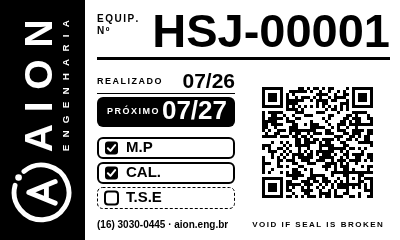
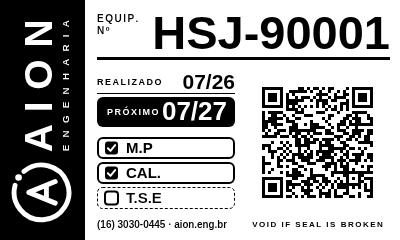
fix(dados): exemplos fictícios em api-campos (F1); setores genéricos no demo agora (F2); etiquetas PNG com HSJ-90001 (F3); fornecedor/fabricante genéricos nos testes (F4); teste 010 com centavos quebrados (F5)

diff --git a/lib/ec/snapshot-demo-agora.ts b/lib/ec/snapshot-demo-agora.ts
@@ -44,7 +44,7 @@ export function snapshotDemoAgora(): SalaSnapshot {
       os: "209909698",
       equipamento: "BISTURI ELETRÔNICO",
       tag: "HSJ-91079",
-      setor: "CENTRO CIRÚRGICO - 10A",
+      setor: "CENTRO CIRÚRGICO",
       situacao: "GRAVE",
       criticidade: "ALTA",
       idade: "5d 8h",
@@ -55,7 +55,7 @@ export function snapshotDemoAgora(): SalaSnapshot {
       os: "209909701",
       equipamento: "MONITOR MULTIPARAMÉTRICO",
       tag: "HSJ-90812",
-      setor: "UTI ADULTO - 3B",
+      setor: "UTI ADULTO",
       situacao: "GRAVE",
       criticidade: "ALTA",
       idade: "3d 2h",
@@ -88,7 +88,7 @@ export function snapshotDemoAgora(): SalaSnapshot {
       os: "209909720",
       equipamento: "BOMBA DE INFUSÃO",
       tag: "HSJ-91550",
-      setor: "CLÍNICA MÉDICA - 5A",
+      setor: "CLÍNICA MÉDICA",
       situacao: "VENCE LOGO",
       criticidade: "MÉDIA",
       idade: "9h",
@@ -99,7 +99,7 @@ export function snapshotDemoAgora(): SalaSnapshot {
       os: "209909722",
       equipamento: "CARDIOVERSOR",
       tag: "HSJ-90301",
-      setor: "CENTRO CIRÚRGICO - 10B",
+      setor: "CENTRO CIRÚRGICO",
       situacao: "NO PRAZO",
       criticidade: "BAIXA",
       idade: "3h",
@@ -137,8 +137,8 @@ export function snapshotDemoAgora(): SalaSnapshot {
       "agora.sem-primeiro": fila,
       "agora.parados": [
         { tag: "HSJ-91102", equipamento: "UMIDIFICADOR", setor: "CME", tempo: "166d", os: "209908100" },
-        { tag: "HSJ-91079", equipamento: "BISTURI ELETRÔNICO", setor: "CENTRO CIRÚRGICO - 10A", tempo: "5d", os: "209909698" },
-        { tag: "HSJ-90812", equipamento: "MONITOR MULTIPARAMÉTRICO", setor: "UTI ADULTO - 3B", tempo: "3d", os: "209909701" },
+        { tag: "HSJ-91079", equipamento: "BISTURI ELETRÔNICO", setor: "CENTRO CIRÚRGICO", tempo: "5d", os: "209909698" },
+        { tag: "HSJ-90812", equipamento: "MONITOR MULTIPARAMÉTRICO", setor: "UTI ADULTO", tempo: "3d", os: "209909701" },
         { tag: "HSJ-90221", equipamento: "DESFIBRILADOR", setor: "PRONTO SOCORRO", tempo: "1d", os: "209909710" },
       ],
     },
@@ -147,7 +147,7 @@ export function snapshotDemoAgora(): SalaSnapshot {
         os: "209909698",
         equipamento: "BISTURI ELETRÔNICO",
         tag: "HSJ-91079",
-        setor: "CENTRO CIRÚRGICO - 10A",
+        setor: "CENTRO CIRÚRGICO",
         solicitacao: "Não corta — pedalar sem efeito. Urgente para cirurgia.",
         ocorrencia: "Falha de potência",
         manutencaoExterna: true,
@@ -159,7 +159,7 @@ export function snapshotDemoAgora(): SalaSnapshot {
         os: "209909701",
         equipamento: "MONITOR MULTIPARAMÉTRICO",
         tag: "HSJ-90812",
-        setor: "UTI ADULTO - 3B",
+        setor: "UTI ADULTO",
         solicitacao: "Tela apagada; cabo SpO2 intermitente.",
         pendenciaCompra: true,
         pendencia: "Aguardando compra de cabo SpO2",
@@ -190,7 +190,7 @@ export function snapshotDemoAgora(): SalaSnapshot {
         os: "209909720",
         equipamento: "BOMBA DE INFUSÃO",
         tag: "HSJ-91550",
-        setor: "CLÍNICA MÉDICA - 5A",
+        setor: "CLÍNICA MÉDICA",
         solicitacao: "Oclusão falsa frequente.",
         criticidade: "MÉDIA",
         etapa: "Em atendimento",
@@ -200,7 +200,7 @@ export function snapshotDemoAgora(): SalaSnapshot {
         os: "209909722",
         equipamento: "CARDIOVERSOR",
         tag: "HSJ-90301",
-        setor: "CENTRO CIRÚRGICO - 10B",
+        setor: "CENTRO CIRÚRGICO",
         solicitacao: "Teste preventivo pós-uso.",
         criticidade: "BAIXA",
       }),

diff --git a/lib/db/migrations/010_contratos_inativado_em.test.ts b/lib/db/migrations/010_contratos_inativado_em.test.ts
@@ -81,3 +81,30 @@ test("C5 store: inativar grava inativado_em BRT; reinativar mantém; reativar li
     rmSync(dir, { recursive: true, force: true });
   }
 });
+
+test("C6b 010 com valores quebrados fictícios: centavos intactos e soma arredondada igual", () => {
+  const dir = mkdtempSync(path.join(os.tmpdir(), "m010c-"));
+  try {
+    const db = new Database(path.join(dir, "t.sqlite"));
+    db.exec(SCHEMA_SQL);
+    aplicarMigration009ContratosProprios(db);
+    const ins = db.prepare(
+      "INSERT INTO contratos (id, nome, fornecedor, valor_mensal, inicio, fim, ativo, tipo, created_at, updated_at) VALUES (?,?,?,?,?,?,?,?,?,?)",
+    );
+    // Fictícios: 1234,56 + 0,10 + 0,20 + 333,33×3 + 9876,54 + 0,01 = 12.111,40
+    const valores = [1234.56, 0.1, 0.2, 333.33, 333.33, 333.33, 9876.54, 0.01];
+    valores.forEach((v, i) => ins.run(`q${i}`, `Q${i}`, "FORNECEDOR DEMO", v, "2026-01-01", null, 1, "MANUTENCAO", "2026-10-20T00:00:00Z", "2026-10-20T00:00:00Z"));
+    const soma = () => (db.prepare("SELECT ROUND(SUM(valor_mensal), 2) s FROM contratos").get() as { s: number }).s;
+    const antes = checksum(db);
+    assert.equal(soma(), 12111.4);
+    aplicarMigration010ContratosInativadoEm(db);
+    aplicarMigration010ContratosInativadoEm(db);
+    assert.equal(checksum(db), antes);
+    assert.equal(soma(), 12111.4);
+    const lidos = (db.prepare("SELECT valor_mensal v FROM contratos ORDER BY id").all() as Array<{ v: number }>).map((r) => r.v);
+    assert.deepEqual(lidos, valores, "cada valor_mensal mantém os centavos exatos");
+    db.close();
+  } finally {
+    rmSync(dir, { recursive: true, force: true });
+  }
+});

diff --git a/lib/cadastros/contratos-proprios.test.ts b/lib/cadastros/contratos-proprios.test.ts
@@ -9,13 +9,13 @@ import {
   validarContrato,
 } from "./contratos-proprios";
 
-const base = { nome: "", fornecedor: "SIEMENS", equipamento: "TOMOGRAFO", tipo: "MANUTENCAO", valorMensal: 100, inicio: "2026-01-01", fim: "2027-01-01" };
+const base = { nome: "", fornecedor: "FORNECEDOR DEMO", equipamento: "TOMOGRAFO", tipo: "MANUTENCAO", valorMensal: 100, inicio: "2026-01-01", fim: "2027-01-01" };
 
 test("válido gera nome equipamento – fornecedor", () => {
   const v = validarContrato(base);
   assert.ok(v.ok);
   if (v.ok) {
-    assert.equal(v.data.nome, "TOMOGRAFO – SIEMENS");
+    assert.equal(v.data.nome, "TOMOGRAFO – FORNECEDOR DEMO");
     assert.equal(v.data.tipo, "MANUTENCAO");
   }
 });

diff --git a/lib/etiquetas/agregar-plano.test.ts b/lib/etiquetas/agregar-plano.test.ts
@@ -15,7 +15,7 @@ function os(
     CodigoSerialOS: Number(parcial.OS) || 1,
     Equipamento: "Monitor multiparamétrico",
     Modelo: "MX450",
-    Fabricante: "Philips",
+    Fabricante: "Fabricante Demo",
     Setor: "UTI",
     CentroDeCusto: "CC1",
     Fechamento: "",

diff --git a/docs/sala/api-campos.md b/docs/sala/api-campos.md
@@ -10,7 +10,7 @@ Exemplos abaixo são valores de categoria. Nomes de pessoas não entram aqui.
 
 | Coluna | Tipo | Nulos | Exemplo | Significado provável |
 |---|---|---:|---|---|
-| Anexo | texto | 0% | NF 106587.pdf | Nome do arquivo. Sem tipo de anexo nem data de emissão do laudo. |
+| Anexo | texto | 0% | NF 000001.pdf | Nome do arquivo. Sem tipo de anexo nem data de emissão do laudo. |
 | DataHoraInclusao | data | 0% | 2018-06-20T16:57:06 | Quando o arquivo entrou no Effort, não a data do laudo. |
 | EquipamentoId | number | 0% | 4479 | Id interno do equipamento. Liga com equipamentos.Id. |
 | LinkAnexo | texto | 0% | https://sjh.globalthings.net/api/v1/files/1048/bytoken/HhZSAuiUabN9cu24cY2kNGDjR | Campo retornado pela API; uso na Sala ainda não fechado. |
@@ -22,7 +22,7 @@ Exemplos abaixo são valores de categoria. Nomes de pessoas não entram aqui.
 
 | Coluna | Tipo | Nulos | Exemplo | Significado provável |
 |---|---|---:|---|---|
-| Anexo | texto | 0% | Certificados_Bbraum.pdf | Nome do arquivo. Sem tipo de anexo nem data de emissão do laudo. |
+| Anexo | texto | 0% | Certificado_demo.pdf | Nome do arquivo. Sem tipo de anexo nem data de emissão do laudo. |
 | CodigoOS | numero-texto | 0% | 209907871 | Número da OS no anexo. Liga com OS. |
 | DataHoraInclusao | data | 0% | 2024-12-09T15:42:52 | Quando o arquivo entrou no Effort, não a data do laudo. |
 | LinkAnexo | texto | 0% | https://sjh.globalthings.net/api/v1/files/83/bytoken/HhZSAuiUabN9cu24cY2kNGDjRML | Campo retornado pela API; uso na Sala ainda não fechado. |
@@ -38,13 +38,13 @@ Exemplos abaixo são valores de categoria. Nomes de pessoas não entram aqui.
 | DataDaUltima | vazio | 100% | — | Última execução do plano. 100% vazio neste recorte. |
 | Empresa | texto | 0% | HOSPITAL E MATERNIDADE SÃO JOAQUIM | Campo retornado pela API; uso na Sala ainda não fechado. |
 | Equipamento | texto | 0% | TERMOHIGRÔMETRO | Campo retornado pela API; uso na Sala ainda não fechado. |
-| Fabricante | texto | 8.8% | MINIPA | Campo retornado pela API; uso na Sala ainda não fechado. |
-| Modelo | texto | 0% | MT241 | Campo retornado pela API; uso na Sala ainda não fechado. |
+| Fabricante | texto | 8.8% | FABRICANTE DEMO | Campo retornado pela API; uso na Sala ainda não fechado. |
+| Modelo | texto | 0% | MODELO DEMO | Campo retornado pela API; uso na Sala ainda não fechado. |
 | Observacao | vazio | 100% | — | Campo retornado pela API; uso na Sala ainda não fechado. |
 | Perioridicade | texto | 0% | 6 Mês(Es) | Campo retornado pela API; uso na Sala ainda não fechado. |
 | PlanoDeManutencao | texto | 0% | CALIBRAÇÃO LABORATÓRIO ANÁLISES CLÍNICAS | Nome do plano. Liga cronograma ↔ OS. |
 | ProximaRealizacao | numero-texto | 0% | 209909735 | Código único por linha (ex. 209909735), não uma data de calendário. |
-| Setor | texto | 0% | LABORATÓRIO ANÁLISES CLÍNICAS -15A | Campo retornado pela API; uso na Sala ainda não fechado. |
+| Setor | texto | 0% | SETOR DEMO A | Campo retornado pela API; uso na Sala ainda não fechado. |
 | Tag | texto | 0% | HSJ-91880 | Chave do equipamento (HSJ-#####). Liga OS, parque, cronograma e anexos. |
 | TipoDeManutencao | texto | 0% | A - CALIBRAÇÃO DE EQUIPAMENTOS MÉDICOS | Tipo do Effort (corretiva, preventiva, calibração, TSE…). |
 
@@ -62,10 +62,10 @@ Falha HTTP 400. Ocorreu um erro ao processar solicitação.
 
 | Coluna | Tipo | Nulos | Exemplo | Significado provável |
 |---|---|---:|---|---|
-| Bairro | texto | 0% | SÃO JOAQUIM | Campo retornado pela API; uso na Sala ainda não fechado. |
+| Bairro | texto | 0% | BAIRRO DEMO | Campo retornado pela API; uso na Sala ainda não fechado. |
 | CentroDeCusto | texto | 0% | HOSPITAL SÃO JOAQUIM | Campo retornado pela API; uso na Sala ainda não fechado. |
-| Cep | texto | 0% | 14406-355 | Campo retornado pela API; uso na Sala ainda não fechado. |
-| Cidade | texto | 0% | FRANCA | Campo retornado pela API; uso na Sala ainda não fechado. |
+| Cep | texto | 0% | 00000-000 | Campo retornado pela API; uso na Sala ainda não fechado. |
+| Cidade | texto | 0% | CIDADE DEMO | Campo retornado pela API; uso na Sala ainda não fechado. |
 | Cliente | vazio | 100% | — | Campo retornado pela API; uso na Sala ainda não fechado. |
 | CodigoCliente | vazio | 100% | — | Campo retornado pela API; uso na Sala ainda não fechado. |
 | ComponenteDe | vazio | 100% | — | Campo retornado pela API; uso na Sala ainda não fechado. |
@@ -79,22 +79,22 @@ Falha HTTP 400. Ocorreu um erro ao processar solicitação.
 | DataDeInstalação | data | 25.6% | 30/05/2025 | Campo retornado pela API; uso na Sala ainda não fechado. |
 | EndOfLife | data | 27.4% | 01/01/2050 | Data de fim de vida. Não é um campo 'anos de vida útil'. 01/01/2050 parece placeholder. |
 | EndOfService | data | 27.4% | 01/01/2050 | Fim de suporte do fabricante. Não há flag 'descontinuado'. |
-| Endereco | texto | 0% | RUA ABÍLIO COUTINHO 331, SÃO JOAQUIM, FRANCA-SP | Campo retornado pela API; uso na Sala ainda não fechado. |
+| Endereco | texto | 0% | RUA EXEMPLO 100, BAIRRO DEMO, CIDADE-UF | Campo retornado pela API; uso na Sala ainda não fechado. |
 | Equipamento | texto | 0% | ESFIGMOMANÔMETRO | Campo retornado pela API; uso na Sala ainda não fechado. |
-| Fabricante | texto | 5.5% | B BRAUN S/A. | Campo retornado pela API; uso na Sala ainda não fechado. |
+| Fabricante | texto | 5.5% | FABRICANTE DEMO | Campo retornado pela API; uso na Sala ainda não fechado. |
 | Fornecedor | texto | 52% | FORNECEDOR A | Campo retornado pela API; uso na Sala ainda não fechado. |
-| GarantiaExterna | texto | 96.4% | DE SERVIÇO: DRAGER INDUSTRIA E COMERCIO LTDA ATÉ: 10/04/2017 NA OS: 201607994 | Campo retornado pela API; uso na Sala ainda não fechado. |
-| GrupoDeSetores | texto | 0% | DEPÓSITO PATRIMÔNIO | Campo retornado pela API; uso na Sala ainda não fechado. |
+| GarantiaExterna | texto | 96.4% | DE SERVIÇO: EMPRESA DEMO LTDA ATÉ: 01/01/2099 NA OS: 209900002 | Campo retornado pela API; uso na Sala ainda não fechado. |
+| GrupoDeSetores | texto | 0% | GRUPO DEMO | Campo retornado pela API; uso na Sala ainda não fechado. |
 | Id | number | 0% | 7685 | Id interno do equipamento. |
-| Modelo | texto | 0% | ANERÓIDE | Campo retornado pela API; uso na Sala ainda não fechado. |
-| NSerie | texto | 11.5% | PH4A80709/16 | Campo retornado pela API; uso na Sala ainda não fechado. |
-| NotaFiscal | texto | 53.2% | 987471 | Campo retornado pela API; uso na Sala ainda não fechado. |
-| Observacao | texto | 96.1% | EQUIPAMENTO ADQUIRIDO PELA SODEXO | Campo retornado pela API; uso na Sala ainda não fechado. |
-| Patrimonio | texto | 62.4% | 765 | Campo retornado pela API; uso na Sala ainda não fechado. |
+| Modelo | texto | 0% | MODELO DEMO | Campo retornado pela API; uso na Sala ainda não fechado. |
+| NSerie | texto | 11.5% | SN-DEMO-0001 | Campo retornado pela API; uso na Sala ainda não fechado. |
+| NotaFiscal | texto | 53.2% | 000000 | Campo retornado pela API; uso na Sala ainda não fechado. |
+| Observacao | texto | 96.1% | EQUIPAMENTO DE EXEMPLO | Campo retornado pela API; uso na Sala ainda não fechado. |
+| Patrimonio | texto | 62.4% | PAT-0000 | Campo retornado pela API; uso na Sala ainda não fechado. |
 | Prioridade | texto | 98.8% | BAIXA (MÁX. 72HS) | Na OS, prazo no texto (2h, 4h, 12h, 72h). No equipamento, quase vazio. |
 | RazaoSocial | texto | 0% | HOSPITAL E MATERNIDADE SÃO JOAQUIM | Campo retornado pela API; uso na Sala ainda não fechado. |
 | RegistroAnvisa | texto | 24.4% | ISENTO | Campo retornado pela API; uso na Sala ainda não fechado. |
-| Setor | texto | 0% | DEPÓSITO PATRIMÔNIO | Campo retornado pela API; uso na Sala ainda não fechado. |
+| Setor | texto | 0% | SETOR DEMO A | Campo retornado pela API; uso na Sala ainda não fechado. |
 | Situacao | texto | 0% | PRÓPRIO | Propriedade do bem (PRÓPRIO, COMODATO, LOCADO…), não se está parado. |
 | Status | texto | 0% | ATIVO | No equipamento: ATIVO/INATIVO. Na OS: SLA preenchido em 0,2%. |
 | Tag | texto | 0% | HSJ-93001 | Chave do equipamento (HSJ-#####). Liga OS, parque, cronograma e anexos. |
@@ -112,14 +112,14 @@ Falha HTTP 400. Ocorreu um erro ao processar solicitação.
 | Cliente | vazio | 100% | — | Campo retornado pela API; uso na Sala ainda não fechado. |
 | DataHoraAbertura | data | 0% | 04/02/2026 01:11:00 | Campo retornado pela API; uso na Sala ainda não fechado. |
 | Empresa | texto | 0% | HOSPITAL E MATERNIDADE SÃO JOAQUIM | Campo retornado pela API; uso na Sala ainda não fechado. |
-| Equipamento | texto | 0% | CENTRAL DE MATERIAIS E ESTERILIZAÇÃO - 19 | Campo retornado pela API; uso na Sala ainda não fechado. |
+| Equipamento | texto | 0% | EQUIPAMENTO DEMO | Campo retornado pela API; uso na Sala ainda não fechado. |
 | NumeroOS | numero-texto | 0% | 209909834 | Campo retornado pela API; uso na Sala ainda não fechado. |
 | ObservacaoDaRequisicao | texto | 23.9% | SOLICITO MANUTENÇÃO DE PORTA AGULHA. | Campo retornado pela API; uso na Sala ainda não fechado. |
 | PrazoParaAtendimento | texto | 98.7% | 12:00 | Prazo mostrado no monitor. |
 | Prioridade | texto | 0% | BAIXA (MÁX. 72HS) | Na OS, prazo no texto (2h, 4h, 12h, 72h). No equipamento, quase vazio. |
 | Requisitante | texto | 23.9% | (nome de pessoa) | Quem abriu o chamado. |
-| Setor | texto | 65.7% | UTI INFANTIL - 8 | Campo retornado pela API; uso na Sala ainda não fechado. |
-| Tag | texto | 0% | 19 | Chave do equipamento (HSJ-#####). Liga OS, parque, cronograma e anexos. |
+| Setor | texto | 65.7% | SETOR DEMO A | Campo retornado pela API; uso na Sala ainda não fechado. |
+| Tag | texto | 0% | HSJ-9NNNN | Chave do equipamento (HSJ-#####). Liga OS, parque, cronograma e anexos. |
 | TempoDecorrido | texto | 0% | 239 dia(s) 07:48 | Tempo desde a abertura no monitor. |
 | TipoManutencao | texto | 0% | A - INSTRUMENTAL | Campo retornado pela API; uso na Sala ainda não fechado. |
 
@@ -134,11 +134,11 @@ Falha HTTP 400. Ocorreu um erro ao processar solicitação.
 | Empresa | texto | 0% | HOSPITAL E MATERNIDADE SÃO JOAQUIM | Campo retornado pela API; uso na Sala ainda não fechado. |
 | Equipamento | vazio | 100% | — | Campo retornado pela API; uso na Sala ainda não fechado. |
 | Numero | numero-texto | 0% | 91831 | Campo retornado pela API; uso na Sala ainda não fechado. |
-| Observacao | texto | 0% | SOLCITO CONSERTO DE AR CONDICONADO SALA DE EXAMES | Campo retornado pela API; uso na Sala ainda não fechado. |
+| Observacao | texto | 0% | EQUIPAMENTO DE EXEMPLO | Campo retornado pela API; uso na Sala ainda não fechado. |
 | PrazoParaAtendimento | vazio | 100% | — | Prazo mostrado no monitor. |
 | Prioridade | texto | 0% | MÉDIA (MÁX. 12 HS) | Na OS, prazo no texto (2h, 4h, 12h, 72h). No equipamento, quase vazio. |
 | Requisitante | texto | 0% | (nome de pessoa) | Quem abriu o chamado no monitor. |
-| Setor | texto | 0% | UTI ADULTO - 5A | Campo retornado pela API; uso na Sala ainda não fechado. |
+| Setor | texto | 0% | SETOR DEMO A | Campo retornado pela API; uso na Sala ainda não fechado. |
 | Tag | vazio | 100% | — | Chave do equipamento (HSJ-#####). Liga OS, parque, cronograma e anexos. |
 | TempoDecorrido | texto | 0% | 00:00 | Tempo desde a abertura no monitor. |
 | TipoManutencao | texto | 0% | CORRETIVA | Campo retornado pela API; uso na Sala ainda não fechado. |
@@ -155,7 +155,7 @@ Falha HTTP 404. Recurso não encontrado.
 |---|---|---:|---|---|
 | AbertaPor | texto | 0% | (nome de pessoa) | Usuário que abriu a OS. |
 | Abertura | data | 0% | 04/02/2025 17:30 | Abertura da OS. |
-| Assistencia | texto | 99.1% | ADEMIR CARLOS DE ALMEIDA FRANCA -ME | Nome da assistência técnica externa, quando houver. |
+| Assistencia | texto | 99.1% | ASSISTÊNCIA TÉCNICA DEMO LTDA | Nome da assistência técnica externa, quando houver. |
 | Avaliacao | texto | 33.7% | BOM | Campo retornado pela API; uso na Sala ainda não fechado. |
 | Causa | texto | 46.5% | DESGASTE NATURAL | Causa no encerramento. Vazia em cerca de metade das OS. |
 | CentroDeCusto | texto | 0% | HSJ - HOSPITAL SÃO JOAQUIM | Campo retornado pela API; uso na Sala ainda não fechado. |
@@ -170,30 +170,30 @@ Falha HTTP 404. Recurso não encontrado.
 | Deslocamento | texto | 38% | 0 dias  00:00 | Campo retornado pela API; uso na Sala ainda não fechado. |
 | Empresa | texto | 0% | HOSPITAL E MATERNIDADE SÃO JOAQUIM | Campo retornado pela API; uso na Sala ainda não fechado. |
 | Equipamento | texto | 79.4% | MONITOR MULTIPARÂMETROS | Campo retornado pela API; uso na Sala ainda não fechado. |
-| Fabricante | texto | 81.5% | PHILIPS | Campo retornado pela API; uso na Sala ainda não fechado. |
+| Fabricante | texto | 81.5% | FABRICANTE DEMO | Campo retornado pela API; uso na Sala ainda não fechado. |
 | Fechamento | data | 7.7% | 31/12/2025 13:00 | Fechamento da OS. |
 | Funcionamento | data | 100% | 14/04/2025 10:30 | Volta a funcionar. Quase nunca preenchida (4 OS). |
 | GrupoEmpresa | texto | 0% | GRUPO PRINCIPAL | Campo retornado pela API; uso na Sala ainda não fechado. |
 | HorasTrabalhadas | texto | 0% | 00:00 | Duração total HH:MM. Não traz data do 1º nem do último lançamento. |
 | JustificativaEncerramento | vazio | 100% | — | Campo retornado pela API; uso na Sala ainda não fechado. |
 | LiberadoParaUso | texto | 0% | NÃO INFORMADO | Campo retornado pela API; uso na Sala ainda não fechado. |
-| MatriculaResolvedor | texto | 42.5% | 21121000 | Campo retornado pela API; uso na Sala ainda não fechado. |
-| MatriculaResponsavel | texto | 0% | 211200000 | Campo retornado pela API; uso na Sala ainda não fechado. |
-| Modelo | texto | 79.4% | ANERÓIDE | Campo retornado pela API; uso na Sala ainda não fechado. |
+| MatriculaResolvedor | texto | 42.5% | 00000001 | Campo retornado pela API; uso na Sala ainda não fechado. |
+| MatriculaResponsavel | texto | 0% | 00000002 | Campo retornado pela API; uso na Sala ainda não fechado. |
+| Modelo | texto | 79.4% | MODELO DEMO | Campo retornado pela API; uso na Sala ainda não fechado. |
 | MotivoCancelamentoOS | texto | 96% | CONFORME DESCRITO NA OBSERVAÇÃO | Campo retornado pela API; uso na Sala ainda não fechado. |
 | MotivoDaAvaliacao | vazio | 100% | — | Campo retornado pela API; uso na Sala ainda não fechado. |
-| NumeroDaRequisicao | numero-texto | 25.5% | 86414 | Campo retornado pela API; uso na Sala ainda não fechado. |
-| NumeroDeSerie | texto | 81.2% | 6217212WX0 | Campo retornado pela API; uso na Sala ainda não fechado. |
+| NumeroDaRequisicao | numero-texto | 25.5% | 00001 | Campo retornado pela API; uso na Sala ainda não fechado. |
+| NumeroDeSerie | texto | 81.2% | SN-DEMO-0002 | Campo retornado pela API; uso na Sala ainda não fechado. |
 | OS | numero-texto | 0% | 209900001 | Número da OS no Effort (9 dígitos). |
 | ObservacaoDaAvaliacao | texto | 89.7% | OK | Campo retornado pela API; uso na Sala ainda não fechado. |
 | ObservacaoDaOS | texto | 83.8% | CONTRATO: SERVICOS ESPECIALIZADOS EM ENGENHARIA - DE: 01/01/2025 ATÉ 01/01/2026 | Campo retornado pela API; uso na Sala ainda não fechado. |
-| ObservacaoDaPendencia | texto | 98.6% | S.C. 133921 | Campo retornado pela API; uso na Sala ainda não fechado. |
+| ObservacaoDaPendencia | texto | 98.6% | S.C. 000001 | Campo retornado pela API; uso na Sala ainda não fechado. |
 | ObservacaoDaRequisicao | texto | 25.3% | SOLICITO MANUTENÇÃO DE PORTA AGULHA. | Campo retornado pela API; uso na Sala ainda não fechado. |
 | ObservacaoMotivoCancelamentoOS | texto | 96.6% | ABERTURA ERRADA | Campo retornado pela API; uso na Sala ainda não fechado. |
 | Ocorrencia | texto | 14.7% | ABERTURA DE CHAMADO | Motivo da abertura. |
 | Oficina | texto | 0% | OFICINA GERAL | Oficina da OS. A API oficina em si respondeu 404. |
 | Parada | data | 100% | 14/04/2025 07:30 | Início da parada. Quase nunca preenchida (7 OS). |
-| Patrimonio | texto | 87.8% | 18007 | Campo retornado pela API; uso na Sala ainda não fechado. |
+| Patrimonio | texto | 87.8% | PAT-0000 | Campo retornado pela API; uso na Sala ainda não fechado. |
 | Pendencia | texto | 98.5% | AGUARDANDO REALIZAÇÃO DE COMPRA | Texto da pendência já lançada (compra, peça, externo). Quase sempre vazio. |
 | PendenciaAberta | texto | 99.9% | AGUARDANDO REALIZAÇÃO DE COMPRA | Pendência ainda aberta. 30 OS no recorte. |
 | PendenciaAbertaEm | data | 98.5% | 05/08/2025 | Campo retornado pela API; uso na Sala ainda não fechado. |
@@ -208,7 +208,7 @@ Falha HTTP 404. Recurso não encontrado.
 | SLAAtendimento | texto | 99.4% | 12:00 | Campo retornado pela API; uso na Sala ainda não fechado. |
 | Seguro | texto | 0% | NÃO INFORMADO | Campo retornado pela API; uso na Sala ainda não fechado. |
 | Servico | texto | 39.3% | MANUTENÇÃO CORRETIVA REALIZADA | Serviço lançado (texto concatenado), não um diário de horas. |
-| Setor | texto | 0% | UNIDADE DE EMERGÊNCIA - 26 | Campo retornado pela API; uso na Sala ainda não fechado. |
+| Setor | texto | 0% | SETOR DEMO A | Campo retornado pela API; uso na Sala ainda não fechado. |
 | SituacaoDaOS | texto | 0% | Fechada | Situação macro: Aberta, Fechada, Cancelada, Pendente. Não é a etapa peça/externo/contrato. |
 | Status | texto | 99.8% | Dentro do prazo para atendimento (SLA) | No equipamento: ATIVO/INATIVO. Na OS: SLA preenchido em 0,2%. |
 | Tag | texto | 79.4% | HSJ-92339 | Chave do equipamento (HSJ-#####). Liga OS, parque, cronograma e anexos. |
@@ -231,19 +231,19 @@ Falha HTTP 404. Recurso não encontrado.
 | DataDaSolucao | data | 42% | 06/08/2026 09:00 | Solução. Às vezes difere do fechamento. |
 | Empresa | texto | 0% | HOSPITAL E MATERNIDADE SÃO JOAQUIM | Campo retornado pela API; uso na Sala ainda não fechado. |
 | Equipamento | texto | 79.4% | MONITOR MULTIPARÂMETROS | Campo retornado pela API; uso na Sala ainda não fechado. |
-| Fabricante | texto | 81.5% | PHILIPS | Campo retornado pela API; uso na Sala ainda não fechado. |
+| Fabricante | texto | 81.5% | FABRICANTE DEMO | Campo retornado pela API; uso na Sala ainda não fechado. |
 | Fechamento | data | 7.7% | 31/12/2025 13:00 | Fechamento da OS. |
-| MatriculaResponsavel | texto | 0% | 211200000 | Campo retornado pela API; uso na Sala ainda não fechado. |
-| Modelo | texto | 79.4% | ANERÓIDE | Campo retornado pela API; uso na Sala ainda não fechado. |
+| MatriculaResponsavel | texto | 0% | 00000002 | Campo retornado pela API; uso na Sala ainda não fechado. |
+| Modelo | texto | 79.4% | MODELO DEMO | Campo retornado pela API; uso na Sala ainda não fechado. |
 | OS | numero-texto | 0% | 209900001 | Número da OS no Effort (9 dígitos). |
-| ObservacaoPendencia | texto | 99.9% | S.C 138568 | Campo retornado pela API; uso na Sala ainda não fechado. |
+| ObservacaoPendencia | texto | 99.9% | S.C 000002 | Campo retornado pela API; uso na Sala ainda não fechado. |
 | Ocorrencia | texto | 14.7% | ABERTURA DE CHAMADO | Motivo da abertura. |
 | Oficina | texto | 0% | OFICINA GERAL | Oficina da OS. A API oficina em si respondeu 404. |
 | PendenciaAberta | texto | 99.9% | AGUARDANDO REALIZAÇÃO DE COMPRA | Pendência ainda aberta. 30 OS no recorte. |
 | PlanoDeManutencao | texto | 83.7% | CALIBRAÇÃO LABORATÓRIO ANÁLISES CLÍNICAS | Nome do plano. Liga cronograma ↔ OS. |
 | Prioridade | texto | 0% | MÉDIA (MÁX. 12 HS) | Na OS, prazo no texto (2h, 4h, 12h, 72h). No equipamento, quase vazio. |
 | Responsavel | texto | 0% | (nome de pessoa) | Responsável da OS. Preenchido em todas. |
-| Setor | texto | 0% | UNIDADE DE EMERGÊNCIA - 26 | Campo retornado pela API; uso na Sala ainda não fechado. |
+| Setor | texto | 0% | SETOR DEMO A | Campo retornado pela API; uso na Sala ainda não fechado. |
 | SituacaoDaOS | texto | 0% | Fechada | Situação macro: Aberta, Fechada, Cancelada, Pendente. Não é a etapa peça/externo/contrato. |
 | Status | texto | 99.8% | Dentro do prazo para atendimento (SLA) | No equipamento: ATIVO/INATIVO. Na OS: SLA preenchido em 0,2%. |
 | Tipo | texto | 0% | INT | INT (interna) ou EXT (externa). |
@@ -270,13 +270,13 @@ Falha HTTP 404. Recurso não encontrado.
 | CentroDeCusto | texto | 0% | HSJ - HOSPITAL SÃO JOAQUIM | Campo retornado pela API; uso na Sala ainda não fechado. |
 | Empresa | texto | 0% | HOSPITAL E MATERNIDADE SÃO JOAQUIM | Campo retornado pela API; uso na Sala ainda não fechado. |
 | Equipamento | texto | 0% | ESFIGMOMANÔMETRO | Campo retornado pela API; uso na Sala ainda não fechado. |
-| Fabricante | texto | 8.3% | PHILIPS | Campo retornado pela API; uso na Sala ainda não fechado. |
+| Fabricante | texto | 8.3% | FABRICANTE DEMO | Campo retornado pela API; uso na Sala ainda não fechado. |
 | MTBF | numero-texto | 0% | 357,11 | Tempo médio entre falhas já calculado pela API, em horas (texto). |
-| Modelo | texto | 0% | ANERÓIDE | Campo retornado pela API; uso na Sala ainda não fechado. |
-| NumeroDeSerie | texto | 6.8% | 0101120391 | Campo retornado pela API; uso na Sala ainda não fechado. |
+| Modelo | texto | 0% | MODELO DEMO | Campo retornado pela API; uso na Sala ainda não fechado. |
+| NumeroDeSerie | texto | 6.8% | SN-DEMO-0002 | Campo retornado pela API; uso na Sala ainda não fechado. |
 | Os | numero-texto | 0% | 1 | Campo retornado pela API; uso na Sala ainda não fechado. |
-| Patrimonio | texto | 34.5% | 4705 | Campo retornado pela API; uso na Sala ainda não fechado. |
-| Setor | texto | 0% | UTI ADULTO - 5A | Campo retornado pela API; uso na Sala ainda não fechado. |
+| Patrimonio | texto | 34.5% | PAT-0000 | Campo retornado pela API; uso na Sala ainda não fechado. |
+| Setor | texto | 0% | SETOR DEMO A | Campo retornado pela API; uso na Sala ainda não fechado. |
 | Tag | texto | 0% | HSJ-90001 | Chave do equipamento (HSJ-#####). Liga OS, parque, cronograma e anexos. |
 
 ## TPM
